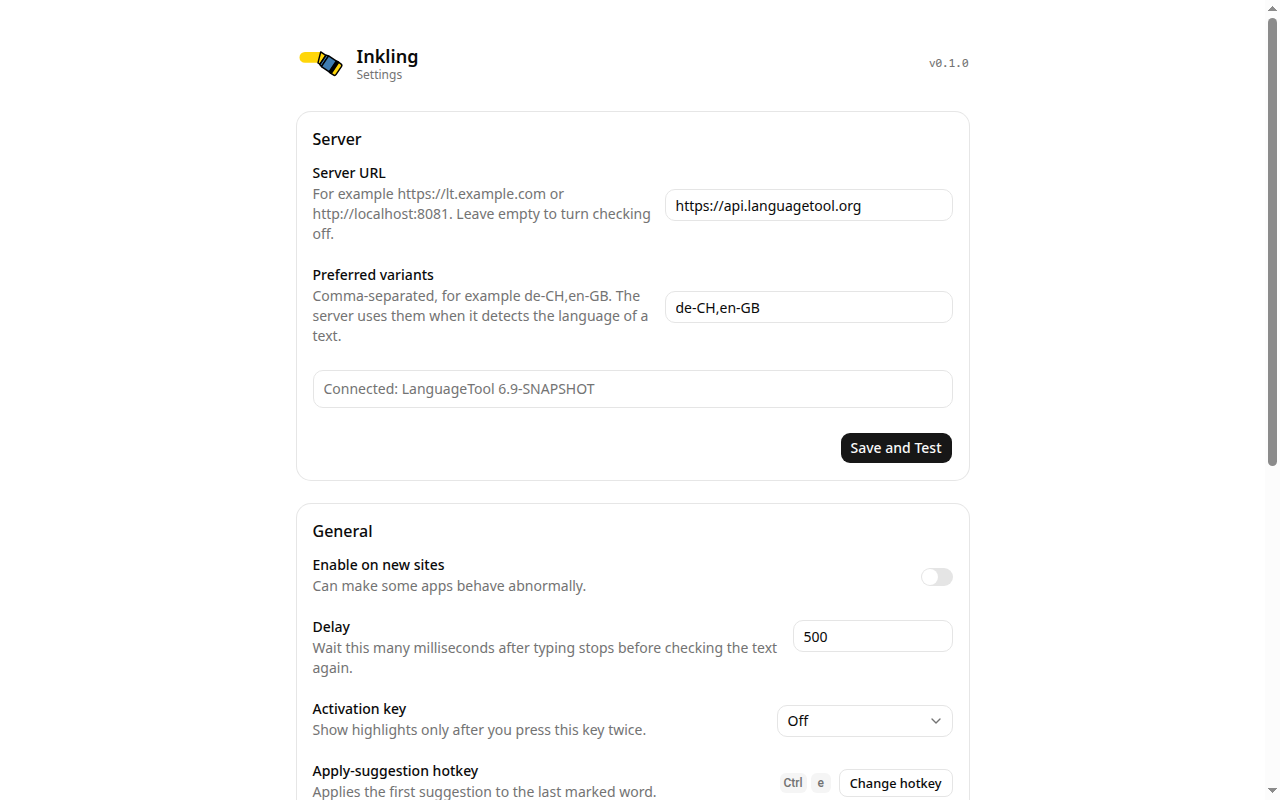
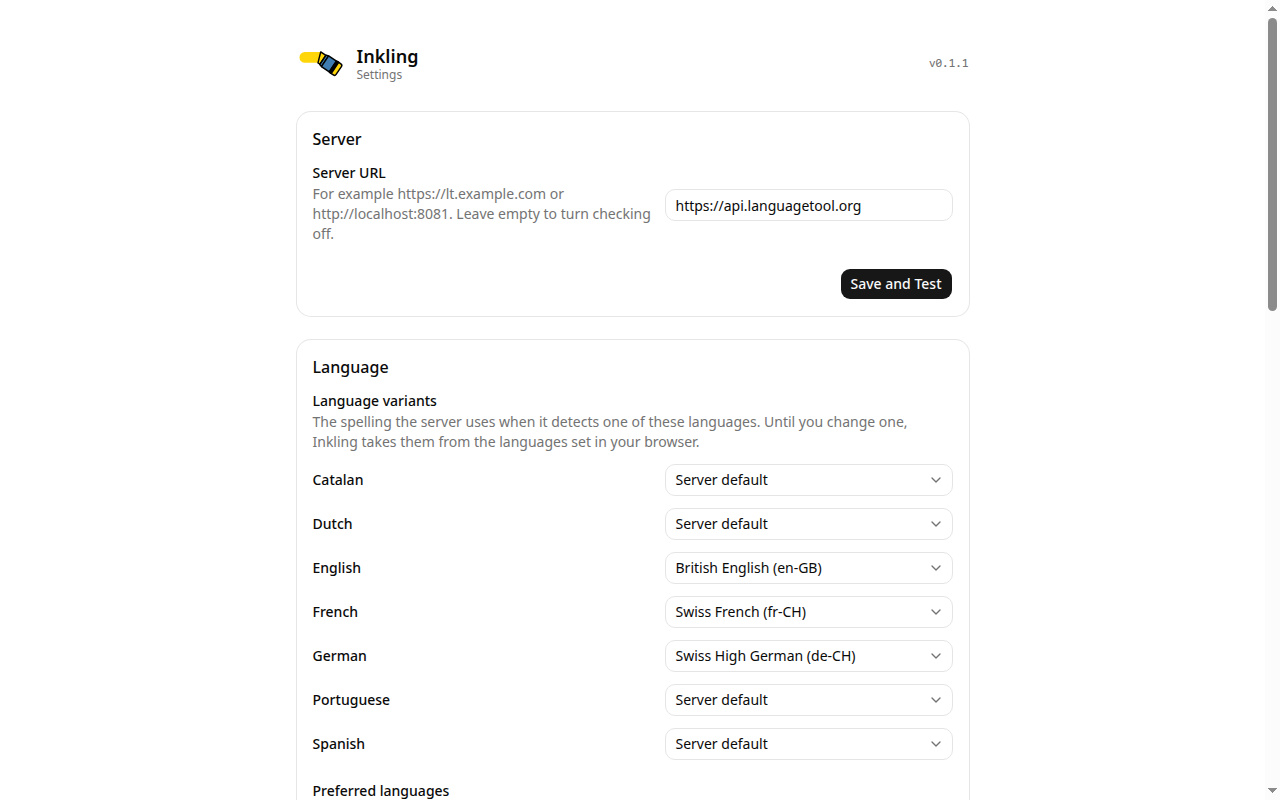
Upload tagged releases to both stores
A new stores job runs after the extension job on v* tags, in the GitHub
environment "stores" that holds the credentials. It checks that neither
zip has host_permissions and that the tag matches package.json, submits
the Firefox zip with the source archive (git archive HEAD) to AMO through
web-ext 10.8.0 sign --channel listed --approval-timeout 0, with the
reviewer notes block of docs/store/listing.md as approval_notes, then
uploads the Chrome zip and submits it through the Chrome Web Store API
v2, and finally publishes the draft release.

scripts/publish-chrome.mjs signs the service account JWT itself with
node:crypto instead of using google-github-actions/auth, which would mint
the token through the IAM Credentials API and need that API enabled and
a token-creator grant. It polls fetchStatus while an upload is
IN_PROGRESS. Tested against a stubbed fetch only; the first real upload
is the next tag.

Also: new settings screenshot with the Language card, and listing.md
names the language settings among the stored data.

diff --git a/docs/store/submitting.md b/docs/store/submitting.md
@@ -4,6 +4,62 @@ Steps to publish a release in the Chrome Web Store and on addons.mozilla.org
 (AMO). The texts to paste are in [listing.md](listing.md); the screenshots are
 described at the end of this file.
 
+A new version of a listed item needs no manual work: once the setup in
+[Automatic upload](#automatic-upload) is done, pushing a `v*` tag uploads
+both packages and submits them for review. Sections 1 to 3 describe the
+manual way, which the first submission of an item needs anyway.
+
+## Automatic upload
+
+For every `v*` tag the "extension" workflow runs its tests and builds the
+packages, then the `stores` job:
+
+1. stops if a package asks for host access at install time, or if the tag
+   is not `v` plus `version` in `packages/extension/package.json`;
+2. uploads `inkling-firefox.zip` and the source archive of the tag to AMO,
+   listed channel, with the reviewer notes from [listing.md](listing.md) as
+   notes to the reviewer;
+3. uploads `inkling-chrome.zip` to the Chrome Web Store and submits it for
+   review; Chrome publishes it after the review;
+4. publishes the draft release on GitHub.
+
+Each store refuses a version it already has, so a second run for the same
+tag fails at the upload. Raise the version and tag again instead.
+
+### One-time setup
+
+AMO:
+
+- On <https://addons.mozilla.org/developers/addon/api/key/>, generate API
+  credentials. Keep the "JWT issuer" and the "JWT secret".
+
+Chrome Web Store:
+
+- In the Google Cloud console, create a project (or pick one) and enable the
+  "Chrome Web Store API".
+- In that project, create a service account. It needs no roles. Create a
+  JSON key for it and download the key file.
+- In the developer dashboard, Account tab, add the service account's email
+  address. A publisher can have one service account.
+- Note the publisher ID (Account tab) and the item ID of Inkling (the ID in
+  the item's dashboard URL and store URL).
+- If you ever change the visibility of the item in the dashboard, publish
+  once by hand; the API publishes with the visibility of the last publish.
+
+GitHub, in the repository's Settings, Environments:
+
+- Create the environment `stores`. Under "Deployment branches and tags",
+  choose "Selected branches and tags" and add the tag rule `v*`, so only tag
+  builds get the secrets. Add yourself as a required reviewer if each upload
+  should wait for a click.
+- Environment secrets: `AMO_JWT_ISSUER`, `AMO_JWT_SECRET`, and
+  `CWS_SERVICE_ACCOUNT_KEY` with the whole content of the JSON key file.
+- Environment variables: `CWS_PUBLISHER_ID` and `CWS_EXTENSION_ID`.
+
+The Chrome upload also runs by hand, with the same variables set in the
+shell: `node scripts/publish-chrome.mjs inkling-chrome.zip`. Add
+`--upload-only` to upload without submitting for review.
+
 ## 1. Build the packages
 
 Each store gets the zip of a tagged release.
@@ -20,7 +76,9 @@ Each store gets the zip of a tagged release.
    Push only this tag. `git push --tags` would also push the old Harper tags,
    and every `v*` tag starts a release build.
 3. Wait for the "extension" workflow on GitHub. It runs all tests and puts
-   `inkling-chrome.zip` and `inkling-firefox.zip` into a draft release.
+   `inkling-chrome.zip` and `inkling-firefox.zip` into a draft release. With
+   the automatic upload set up, it also submits both packages, and you are
+   done here.
 4. Download both zips from the draft release. Do not publish the draft yet.
 5. Check that neither package has a server set or host access granted at
    install time:
@@ -121,8 +179,9 @@ Developer hub: <https://addons.mozilla.org/developers/>
 
 - Publish the draft release on GitHub.
 - When a store asks for changes, fix them on `main`, raise the version in
-  `packages/extension/package.json`, tag again and upload the new zip. A store
-  never accepts the same version twice.
+  `packages/extension/package.json`, tag again and upload the new zip (the
+  automatic upload does this for you). A store never accepts the same
+  version twice.
 
 ## Screenshots
 

diff --git a/docs/store/listing.md b/docs/store/listing.md
@@ -93,7 +93,7 @@ Inkling checks the text the user types in text fields on web pages for spelling,
 - `storage`:
 
   ```text
-  Stores the user's settings on the device: server address, preferred language variants, disabled rules, delay, hotkeys, the user's dictionary, the sites where checking is on or off, and the suggestions the user chose to ignore. A pause for one tab is kept in session storage.
+  Stores the user's settings on the device: server address, language settings (variants, preferred languages, mother tongue, picky mode), disabled rules, delay, hotkeys, the user's dictionary, the sites where checking is on or off, and the suggestions the user chose to ignore. A pause for one tab is kept in session storage.
   ```
 
 - `tabs`:
